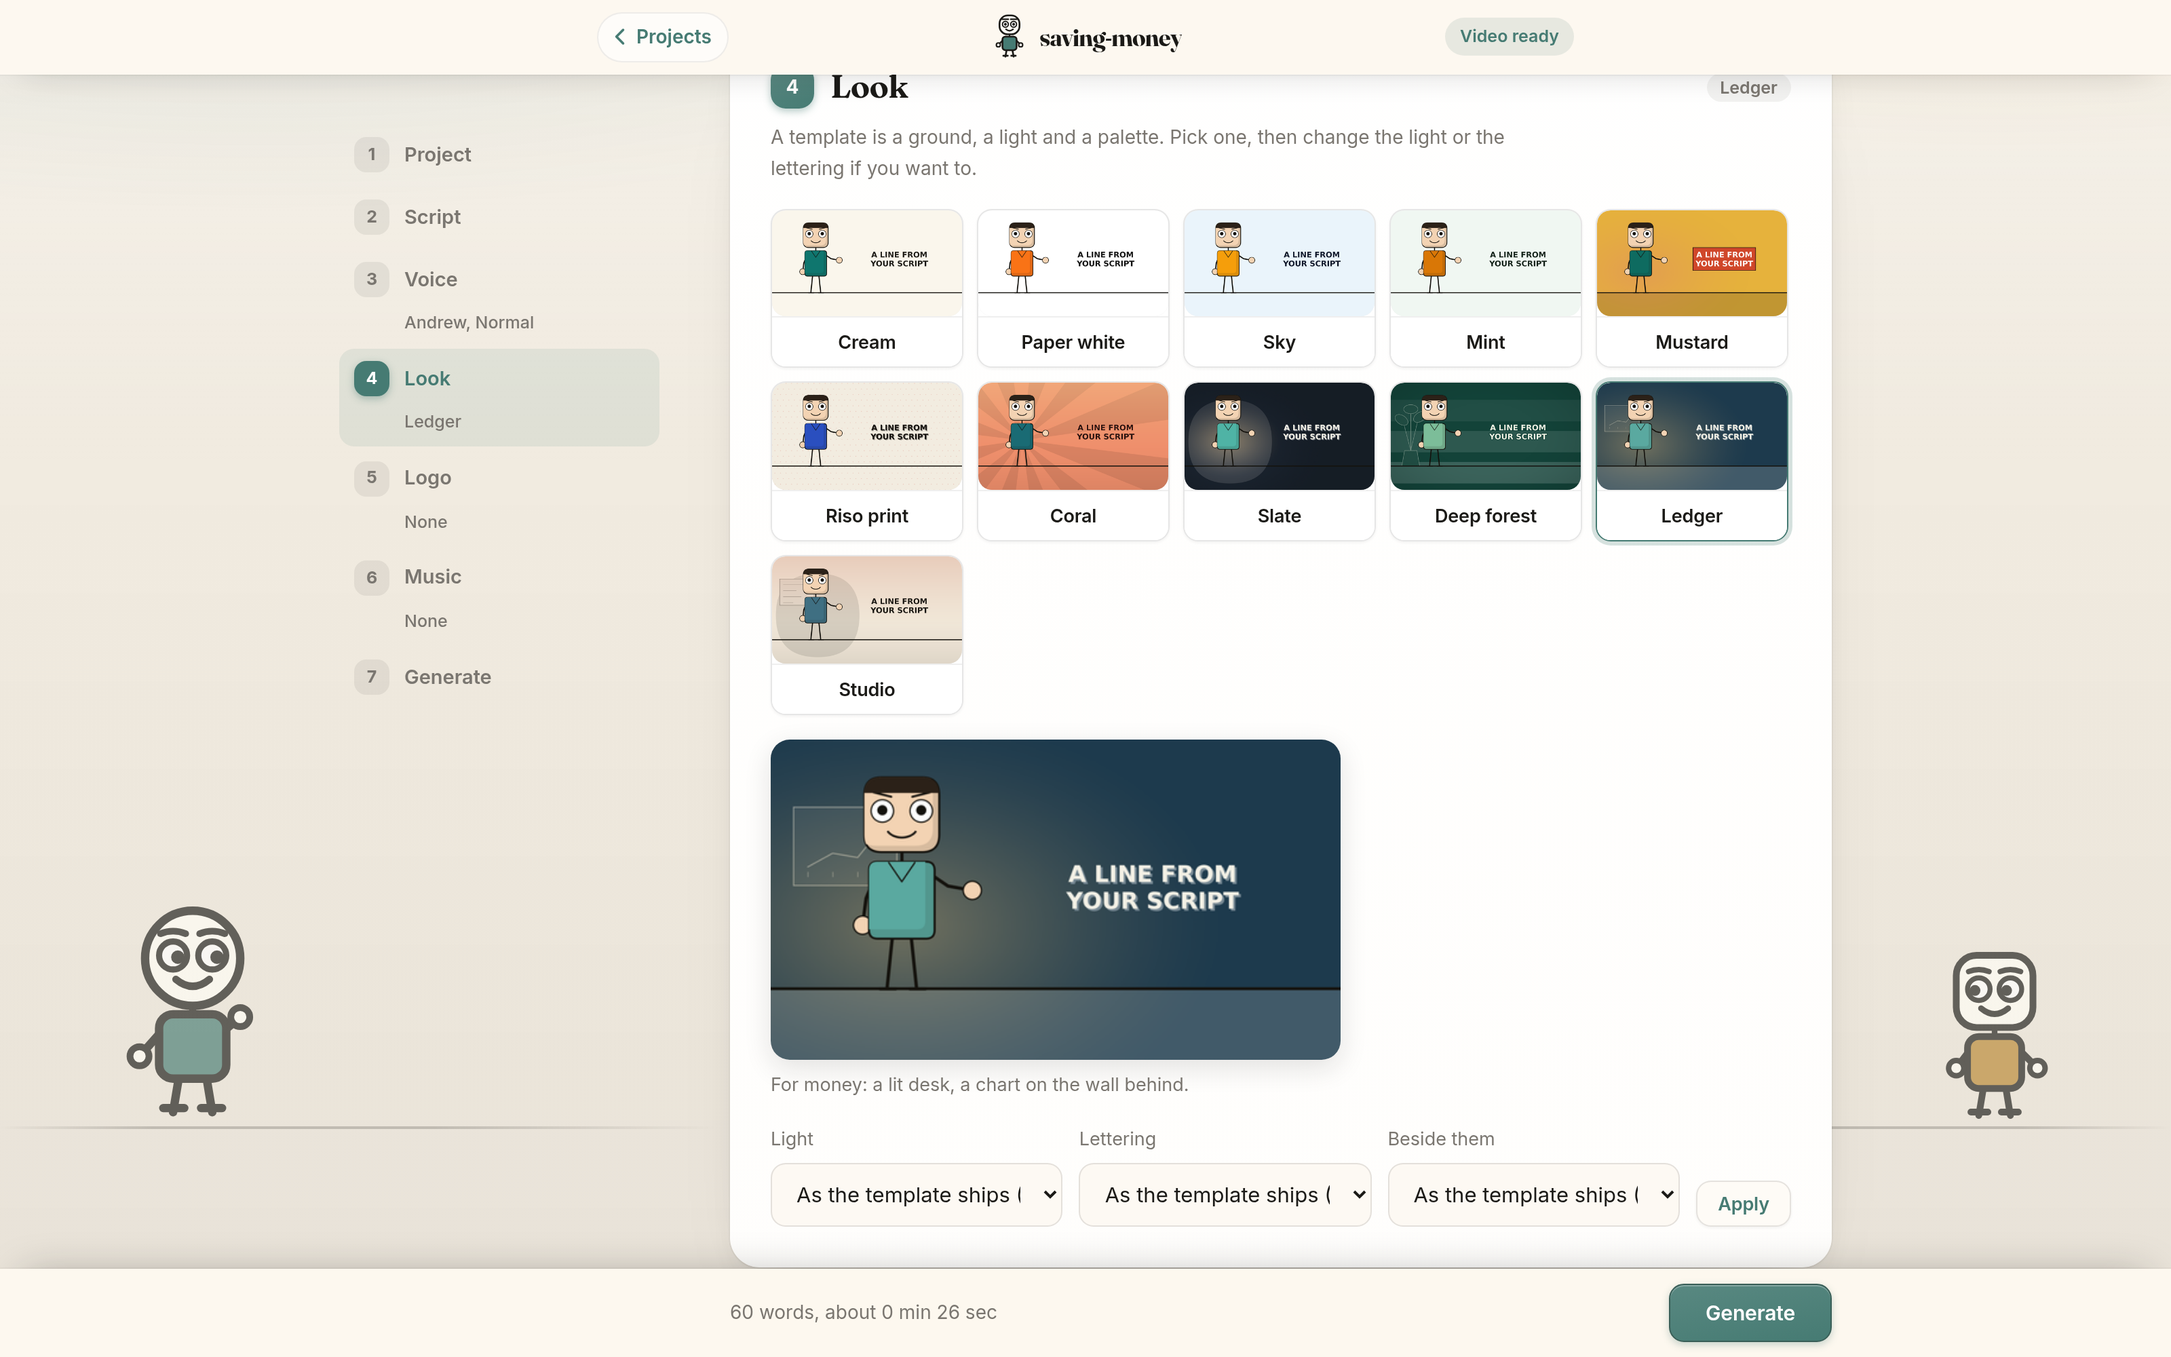
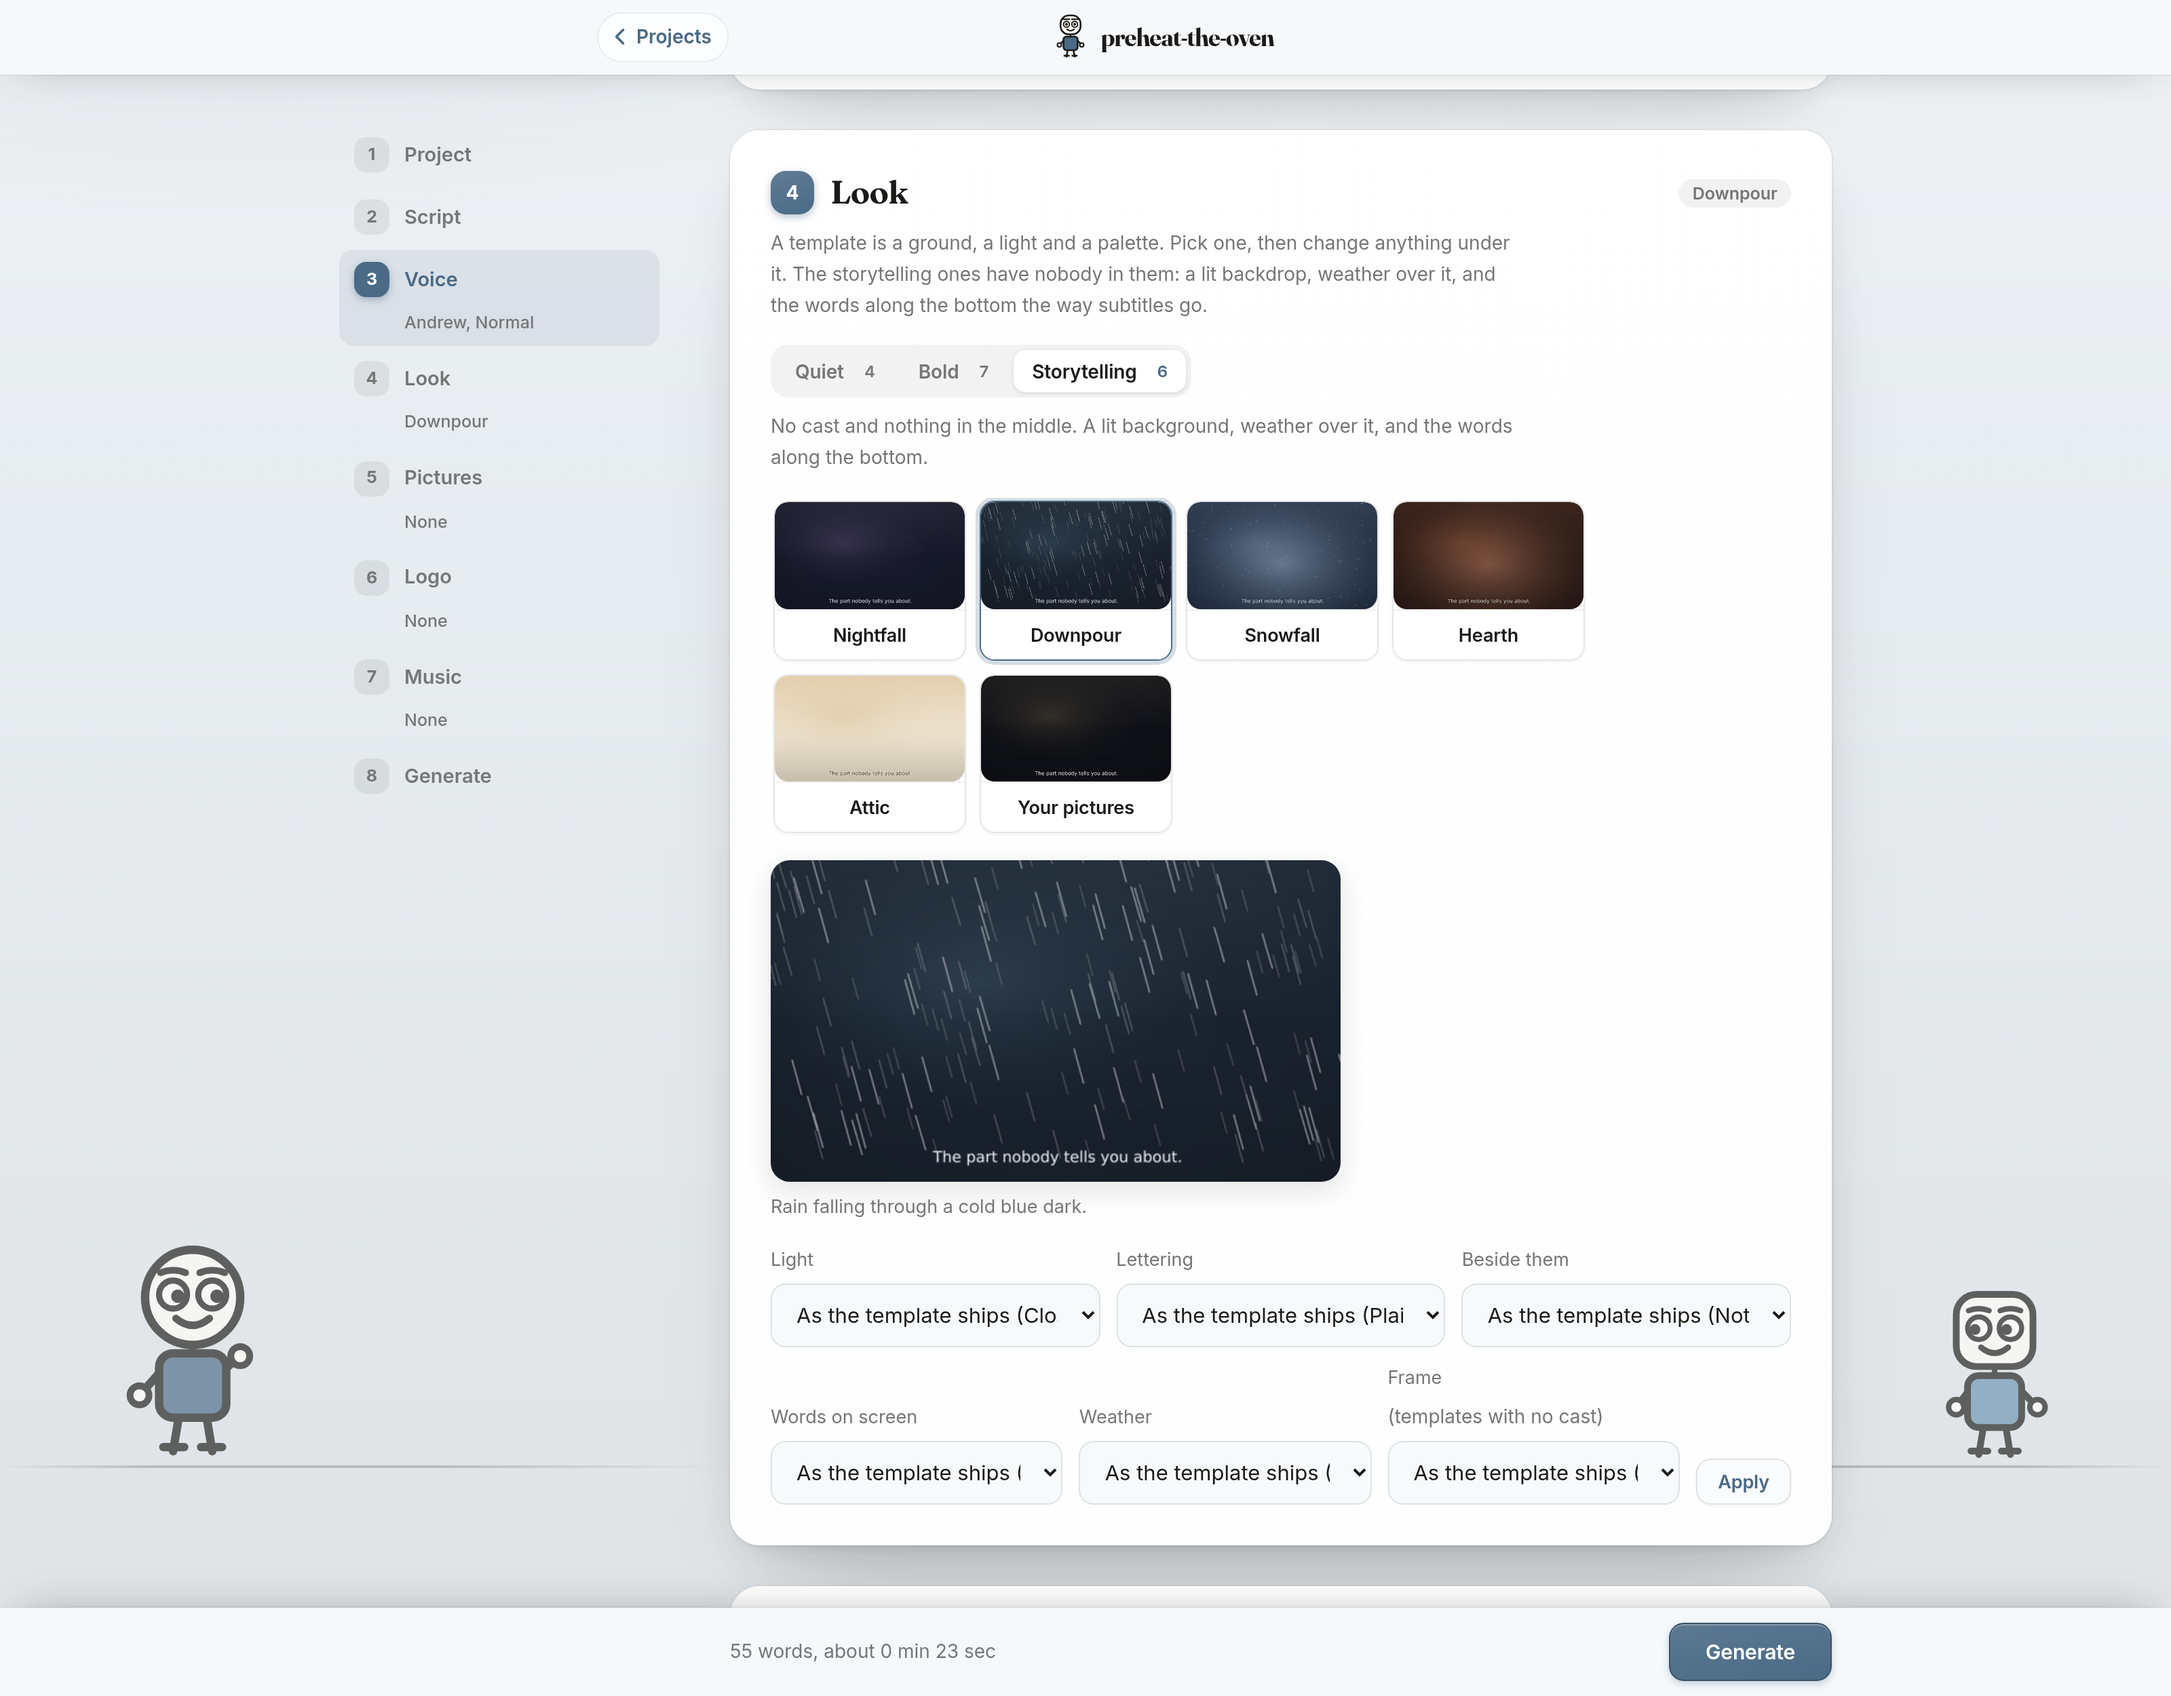
Retake the screenshots, and script it so they stop going stale
The README was showing eleven templates in one flat list, no families, no
Pictures step, and a Look step with three controls. That has not been the app
for a while. Anyone judging this from the page was judging the wrong one.

Both shots are now made by tools/screenshots.py rather than by hand. The page
comes out of a real browser against a real server, and the still is pulled
out of a video the script renders, so neither can drift from what the app
does. Run it after anything that changes the look.

The still picks its own moment: the middle of a caption piece that is a whole
sentence. A fixed timestamp caught one mid-phrase as often as not, and a
still of half a sentence reads as a bug in the subtitles rather than as the
look.

Three pieces of copy were describing the thing that was removed. The Look
hint and the storytelling blurb both promised room in the middle of the frame
for a picture of what the line is about, and Downpour and Nightfall named an
arch and wide bands that a bare frame does not draw.

diff --git a/app/templates/project.html b/app/templates/project.html
@@ -118,9 +118,10 @@
   <section class="step" id="look">
     <h2><span class="stepnum">4</span>Look<span class="stepval" id="chip-look"></span></h2>
     <p class="hint">A template is a ground, a light and a palette. Pick one,
-      then change anything under it. Moving the words to the bottom leaves the
-      middle of the frame for a picture of what the line is about.</p>
-    {# Sixteen templates will not fit on a screen and would not be readable
+      then change anything under it. The storytelling ones have nobody in
+      them: a lit backdrop, weather over it, and the words along the bottom
+      the way subtitles go.</p>
+    {# Seventeen templates will not fit on a screen and would not be readable
        if they did, so one family is shown at a time. The tabs are a view of
        the same list, not a second choice: picking a template still posts the
        same form it always did. #}

diff --git a/tools/screenshots.py b/tools/screenshots.py
@@ -1,0 +1,168 @@
+"""Retake the two screenshots the README shows.
+
+    python tools/screenshots.py
+
+Both are made the way a reader would see them, not mocked up: the page shot
+comes from a real browser against a real server, and the still is pulled out
+of a video this actually rendered. Run it after anything that changes the
+look, or the README quietly starts describing an app that no longer exists.
+
+Voice audio uses the engine's offline stand-in, so this needs no network.
+"""
+
+import os
+import shutil
+import socket
+import subprocess
+import sys
+import time
+import urllib.request
+from pathlib import Path
+
+ROOT = Path(__file__).resolve().parents[1]
+sys.path.insert(0, str(ROOT))
+DOCS = ROOT / "docs"
+
+# the still is rendered in this process, not by the server, so the stand-in
+# has to be set here too or it goes looking for the network
+os.environ.setdefault("STV_FAKE_TTS", "1")
+
+# Long enough to fill the step index and show a real word count, short enough
+# that the render is quick. The subject is deliberately not money, so the
+# screenshots do not read as a tool for one topic.
+SCRIPT = """Every recipe says to preheat the oven. Almost none of them say why.
+
+A hot oven is not the same as an oven that has been on for ten minutes. The
+air comes up to temperature long before the walls do.
+
+Bread put into a cold-walled oven spreads before it sets. It comes out flat.
+"""
+
+
+def free_port():
+    with socket.socket() as s:
+        s.bind(("127.0.0.1", 0))
+        return s.getsockname()[1]
+
+
+def serve():
+    port = free_port()
+    proc = subprocess.Popen(
+        [sys.executable, "-m", "uvicorn", "app.main:app",
+         "--host", "127.0.0.1", "--port", str(port)],
+        env={**os.environ, "STV_FAKE_TTS": "1"},
+        stdout=subprocess.DEVNULL, stderr=subprocess.DEVNULL)
+    base = f"http://127.0.0.1:{port}"
+    for _ in range(60):
+        try:
+            urllib.request.urlopen(base, timeout=1)
+            return proc, base
+        except OSError:
+            time.sleep(0.5)
+    proc.terminate()
+    raise SystemExit("the server did not start")
+
+
+def the_page(base, name):
+    """The Look step, on the family the templates are actually about now."""
+    from playwright.sync_api import sync_playwright
+    with sync_playwright() as pw:
+        browser = pw.chromium.launch(
+            executable_path=os.environ.get("CHROMIUM_PATH") or None)
+        # a retina-ish shot, because the README renders it at half width
+        page = browser.new_page(viewport={"width": 1600, "height": 1250},
+                                device_scale_factor=2)
+        page.goto(base)
+        page.fill('input[name="name"]', name)
+        page.click('button:has-text("Create")')
+        page.wait_for_url(f"**/p/{name}")
+        page.fill("#script", SCRIPT)
+        page.wait_for_selector("#script-info:has-text('words')")
+        # the picker opens on the family the current template is in, and that
+        # is a presenter one, so the storytelling group is hidden until its
+        # tab is picked
+        page.click('.famtab[data-fam="story"]')
+        page.wait_for_selector('#fam-story:not([hidden])')
+        with page.expect_navigation():
+            page.click('button[aria-label="Use the Downpour template"]')
+        page.wait_for_selector("#script-info:has-text('words')")
+        page.click('.famtab[data-fam="story"]')
+        page.wait_for_selector('#fam-story:not([hidden])')
+        # the shot is of the Look step. scrollIntoView puts its top at the
+        # top of the viewport, which is underneath the sticky header, so back
+        # off by more than the header is tall
+        page.eval_on_selector(
+            "#look",
+            "e => window.scrollTo({top: e.getBoundingClientRect().top"
+            " + window.scrollY - 96})")
+        page.wait_for_timeout(900)      # the lazy previews and the scroll
+        page.screenshot(path=str(DOCS / "the-page.png"))
+        browser.close()
+
+
+def a_still(tmp):
+    """One frame out of a video this rendered, subtitle and weather included."""
+    from app import engine, script_parser
+    from app.themes import THEMES
+    proj = tmp / "still"
+    shutil.rmtree(proj, ignore_errors=True)
+    proj.mkdir(parents=True)
+    beats = script_parser.parse(SCRIPT)["beats"]
+    T = THEMES["downpour"]
+    out = engine.render_video(proj, beats, T)
+    subprocess.run(["ffmpeg", "-v", "error", "-y", "-ss", f"{pick_moment(proj, beats, T):.3f}",
+                    "-i", str(out["video"]), "-frames:v", "1",
+                    str(DOCS / "a-still.png")], check=True)
+
+
+def pick_moment(proj, beats, theme):
+    """When to freeze it: the middle of a caption piece that is a whole
+    sentence.
+
+    Long sentences are split across pieces, so grabbing a fixed timestamp
+    catches one mid-phrase as often as not, and a still of half a sentence
+    reads as a bug in the subtitles rather than as the look.
+    """
+    from app import captions, engine
+    from app.voices import DEFAULT_VOICE, DEFAULT_RATE
+    vdir = proj / "cache" / "voice"
+    clock = 0.0
+    for b in engine._prepared([dict(x) for x in beats], proj, theme):
+        key = engine.voice_key(b["say"], DEFAULT_VOICE, DEFAULT_RATE)
+        spoken = engine.duration(vdir / f"{key}.mp3")
+        pieces = b.get("rolling") or [b["say"]]
+        for piece, (a, z) in zip(pieces,
+                                 captions.timings(pieces, engine.LEAD_SILENCE, spoken)):
+            if piece.strip().endswith((".", "!", "?")):
+                return clock + (a + z) / 2
+        clock += engine.LEAD_SILENCE + spoken + engine.BREATH
+    return 2.0
+
+
+def main():
+    DOCS.mkdir(exist_ok=True)
+    tmp = ROOT / ".screenshots"
+    tmp.mkdir(exist_ok=True)
+    # a real looking name, because it is printed in the header
+    name = "preheat-the-oven"
+    proc, base = serve()
+    try:
+        the_page(base, name)
+    finally:
+        proc.terminate()
+        try:
+            proc.wait(timeout=10)
+        except subprocess.TimeoutExpired:
+            # uvicorn waits on its own workers and can outlast a TERM
+            proc.kill()
+            proc.wait(timeout=10)
+    from app import projects
+    shutil.rmtree(projects.path_of(name), ignore_errors=True)
+    a_still(tmp)
+    shutil.rmtree(tmp, ignore_errors=True)
+    for f in ("the-page.png", "a-still.png"):
+        print(f"docs/{f}  {(DOCS / f).stat().st_size // 1024} KB")
+
+
+if __name__ == "__main__":
+    main()

diff --git a/app/themes.py b/app/themes.py
@@ -181,14 +181,14 @@ THEMES.update({
         captions="bottom", layout="story",
         composition="bare",
         family="story",
-        blurb="Deep violet night, wide bands, subtitles along the bottom."),
+        blurb="Deep violet night, quiet and still."),
     "downpour": _theme(
         "downpour", "Downpour", "#1b2430", "#e9eef2", "#7fb2d6", "#4a6a86",
         ground="arch", light="vignette", captions="bottom", layout="story",
         effect="rain",
         composition="bare",
         family="story",
-        blurb="Rain on a dark window, an arch of light behind it."),
+        blurb="Rain falling through a cold blue dark."),
     "snowfall": _theme(
         "snowfall", "Snowfall", "#243044", "#eef2f7", "#9fc4e8", "#6f86a8",
         ground="arch", light="glow", captions="bottom", layout="story",
@@ -267,8 +267,8 @@ FAMILY_LABELS = {"quiet": "Quiet", "bold": "Bold", "story": "Storytelling"}
 FAMILY_BLURBS = {
     "quiet": "A pale page and even light. The palette does the work.",
     "bold": "A ground and a light of its own, with a presenter.",
-    "story": "No cast. A lit background, the words at the bottom, and room "
-             "in the middle for the picture.",
+    "story": "No cast and nothing in the middle. A lit background, weather "
+             "over it, and the words along the bottom.",
 }
 
 

diff --git a/README.md b/README.md
@@ -69,12 +69,16 @@ believing you installed the branch.
 
 ![Picking a template](docs/the-page.png)
 
-*The Look step. Every template shows a real still, and the light, the lettering
-and what stands beside the speaker can each be changed on any of them.*
+*The Look step, on the storytelling family. Every template shows a real still
+of itself, and the light, the lettering, the weather and where the words go
+can each be changed on any of them. Both screenshots are made by
+`tools/screenshots.py`, which drives a real browser and pulls the still out of
+a video it renders, so they cannot drift from what the app does.*
 
 ![A still from a finished video](docs/a-still.png)
 
-*A frame from a finished video in the Ledger template.*
+*A frame from a finished video in the Downpour template: a lit backdrop, rain
+over it, and the line being spoken along the bottom.*
 
 ## Why this exists
 
